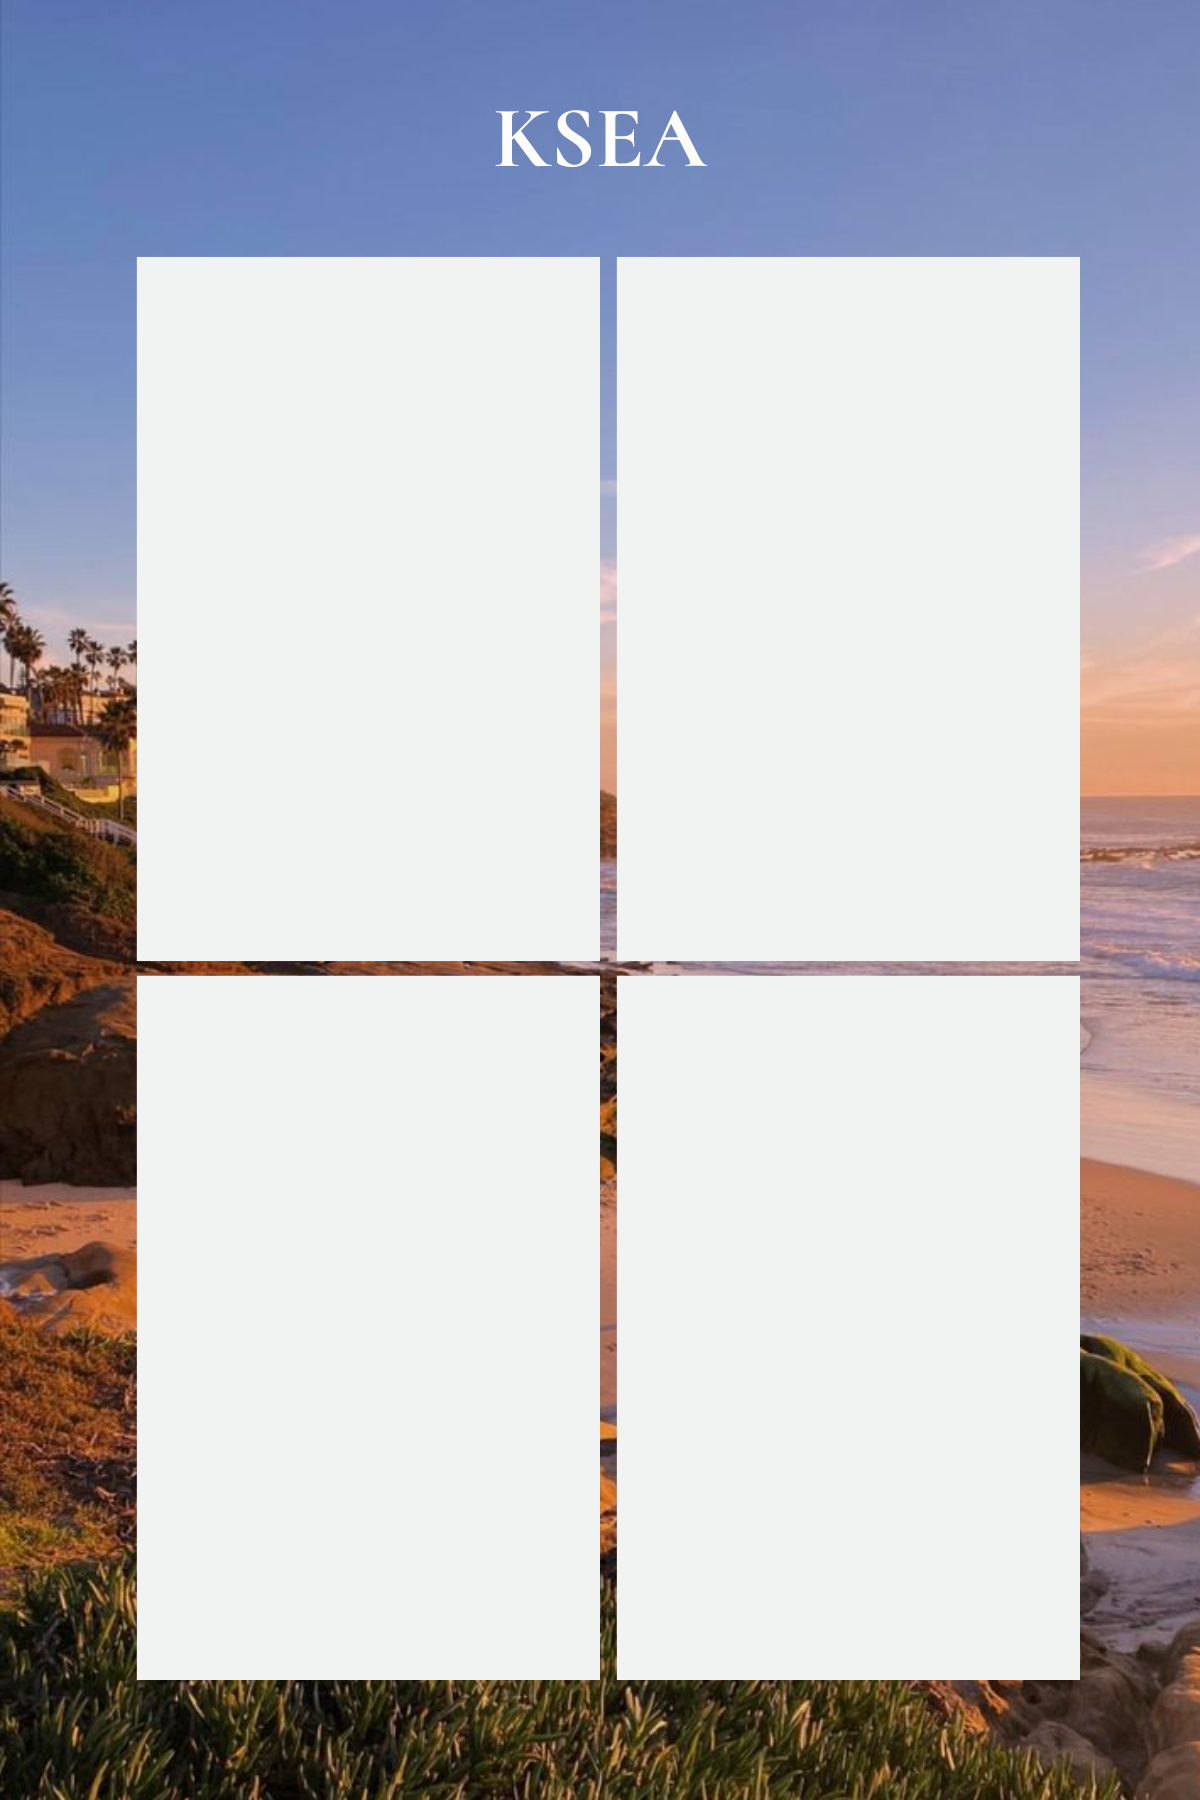
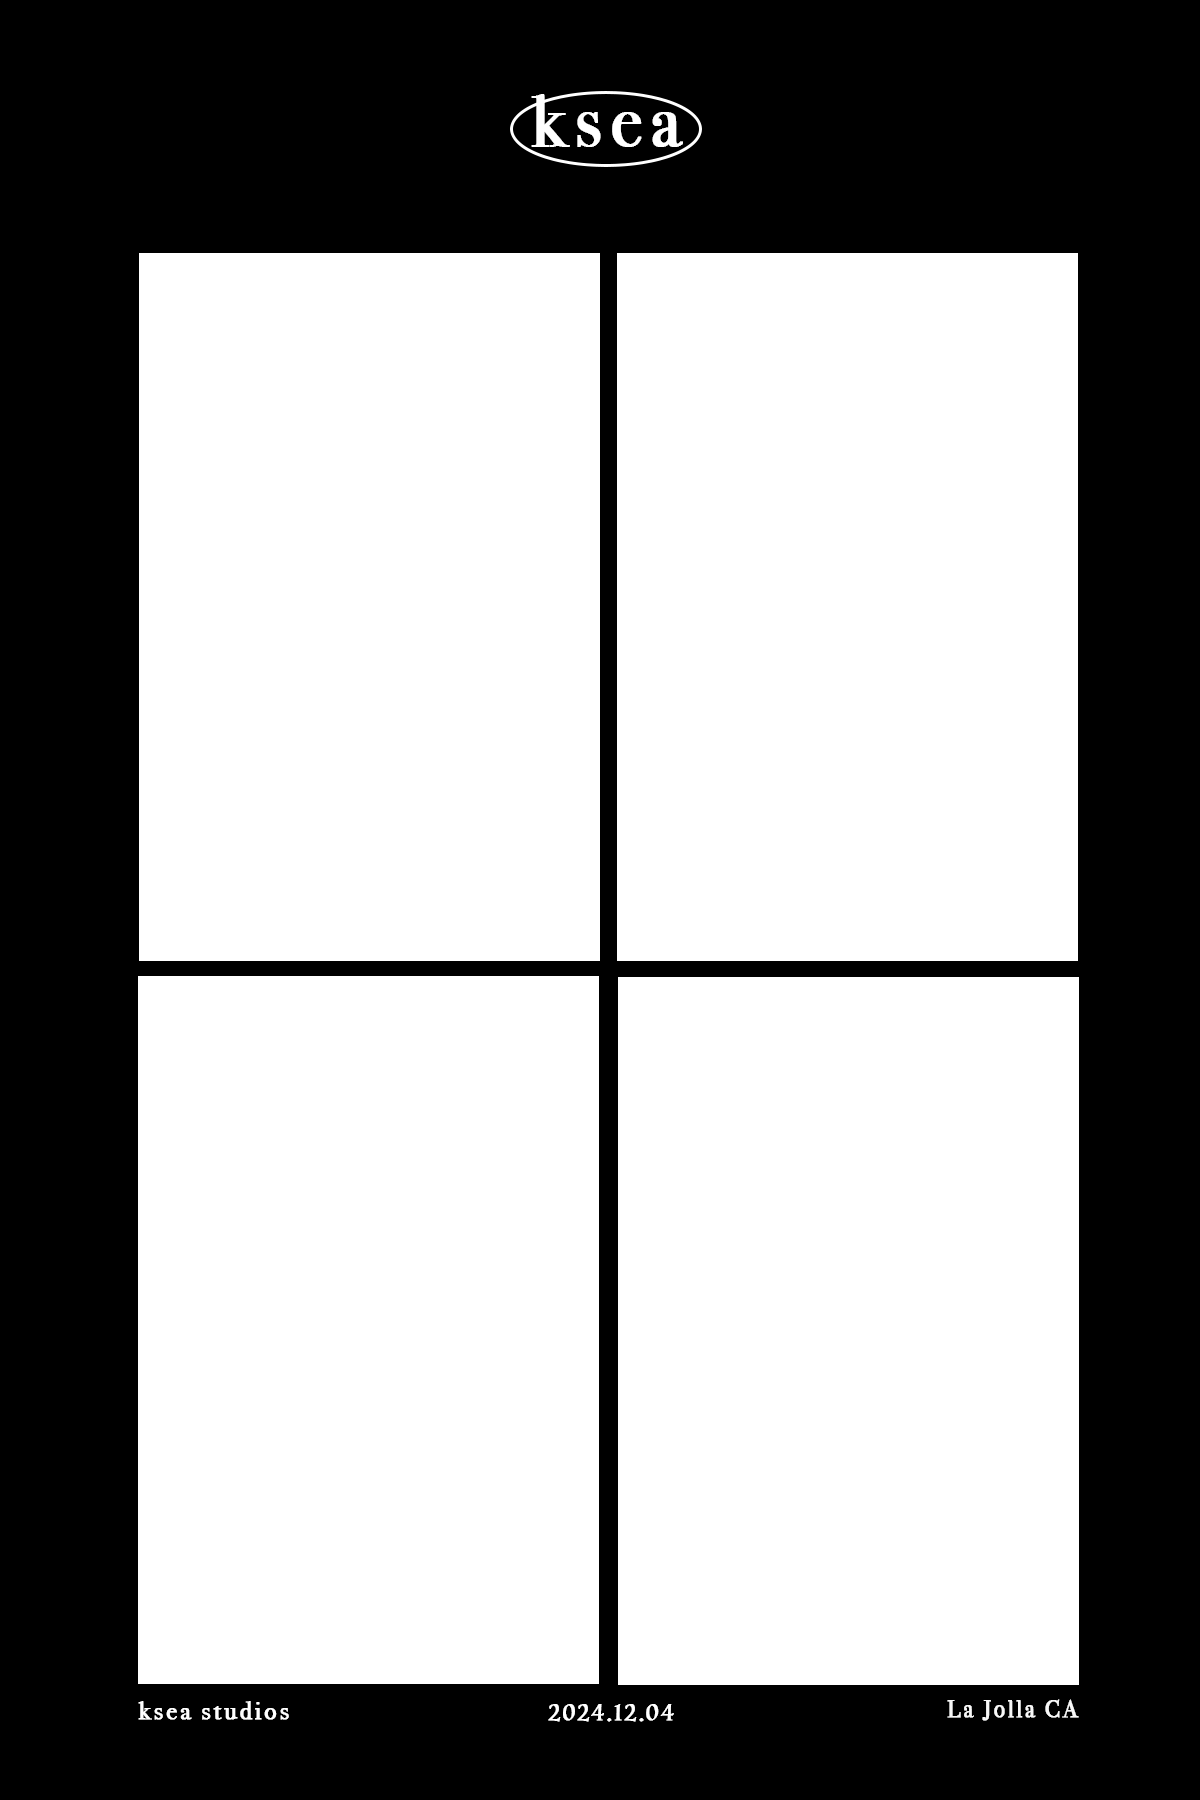
new changes

diff --git a/photobooth_editor_v2.py b/photobooth_editor_v2.py
@@ -478,7 +478,7 @@ class PhotoboothApp:
             self.background_images.clear()
             self.background_thumbs.clear()
 
-            for i in range(7, 16):
+            for i in range(1, 7):
                 path = BACKGROUND_DIR / f"{i}.png"
                 if not path.exists():
                     continue
@@ -914,19 +914,24 @@ class PhotoboothApp:
             fname = f"photo_strip_{time.strftime('%Y%m%d_%H%M%S')}.png"
             file_path = GOOGLE_DRIVE_FOLDER / fname
 
-            canvas_image = Image.new("RGB", (WIDTH, HEIGHT), "white")
+            canvas_image = Image.new("RGBA", (WIDTH, HEIGHT), (255, 255, 255, 255))
 
             crop_region = (0, 0, WIDTH, HEIGHT)
+            bg_resized = None
+            x_offset = y_offset = 0
+
             if self.background_images:
-                idx = self.current_background_index + 2  # file index (2.png, etc.)
+                idx = self.current_background_index + 1
                 bg_path = BACKGROUND_DIR / f"{idx}.png"
+
                 if bg_path.exists():
-                    bg_pillow = Image.open(bg_path).convert("RGB")
+                    bg_pillow = Image.open(bg_path).convert("RGBA")
                     bg_resized = resize_to_fit(bg_pillow, WIDTH, HEIGHT)
                     bg_width, bg_height = bg_resized.size
                     x_offset = (WIDTH - bg_width) // 2
                     y_offset = (HEIGHT - bg_height) // 2
-                    canvas_image.paste(bg_resized, (x_offset, y_offset))
+
+                    # Crop to the frame bounds
                     crop_region = (
                         x_offset,
                         y_offset,
@@ -934,22 +939,45 @@ class PhotoboothApp:
                         y_offset + bg_height,
                     )
 
+            # --- 1) Paste PHOTOS first (behind the frame) ---
+            # Use save positions if you defined them; otherwise fall back.
+            positions = getattr(self, "image_positions_save", None)
+            if positions is None:
+                # fallback: use whatever positions you're using for display
+                positions = getattr(self, "image_positions_display", None)
+            if positions is None:
+                positions = getattr(self, "image_positions", [])
+
             for idx, img in enumerate(self.current_images):
                 if img is None:
                     continue
-                if idx >= len(self.image_positions_save):
+                if idx >= len(positions):
                     break
 
-                img_x, img_y = self.image_positions_save[idx]
+                img_x, img_y = positions[idx]
 
+                # Keep aspect / size like before
                 aspect = img.width / img.height
                 new_height = SLOT_H
                 new_width = int(new_height * aspect)
-                resized = img.resize((new_width, new_height), Image.LANCZOS)
-                resized = ImageOps.expand(resized, border=2, fill="white")
-                canvas_image.paste(resized, (img_x, img_y))
 
+                # Convert to RGBA so alpha compositing works if needed
+                resized = img.resize((new_width, new_height), Image.LANCZOS).convert("RGBA")
+                # Optional white border
+                resized = ImageOps.expand(resized, border=2, fill="white")
+
+                # Paste photo onto base canvas (no mask needed; it's opaque)
+                canvas_image.paste(resized, (img_x, img_y), resized)
+
+            # --- 2) Paste FRAME / BACKGROUND on TOP using alpha mask ---
+            if bg_resized is not None:
+                # Paste with its own alpha as mask -> frame on top, photos visible through holes
+                canvas_image.paste(bg_resized, (x_offset, y_offset), bg_resized)
+
+            # Crop to the frame area
             cropped = canvas_image.crop(crop_region)
+
+            # PNG supports RGBA, so we can save directly
             cropped.save(file_path)
 
             self.status_var.set(f"Image saved to {file_path}. Ready for new photos.")
@@ -960,6 +988,7 @@ class PhotoboothApp:
         except Exception as e:
             showerror("Error", f"Error saving image: {e}")
             self.status_var.set("Error saving image")
+
 
     # ---------------------- BUTTON STATE ------------------------------
     def _update_buttons(self):
